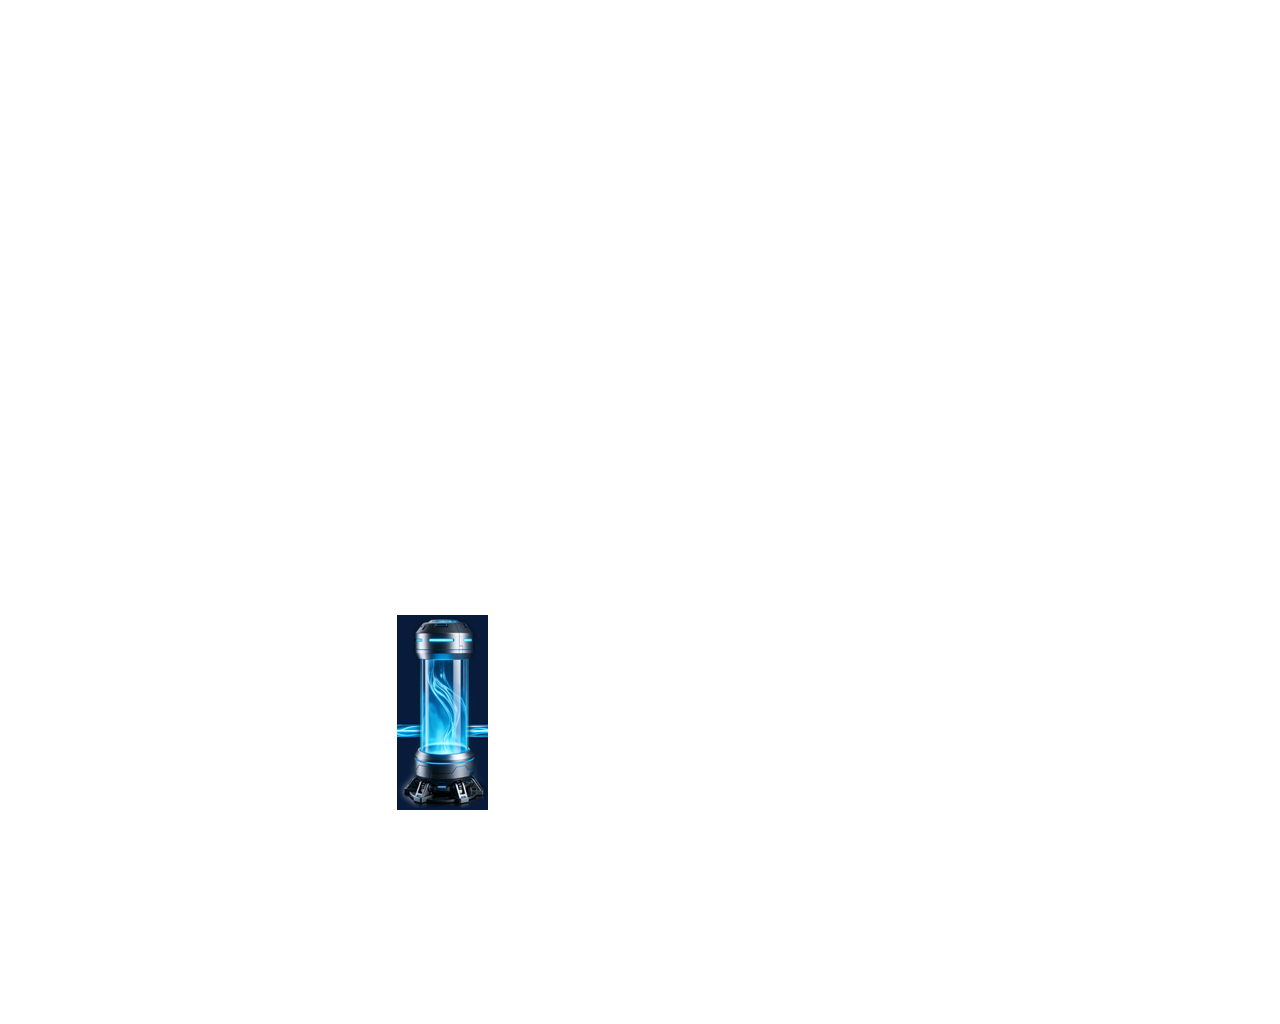
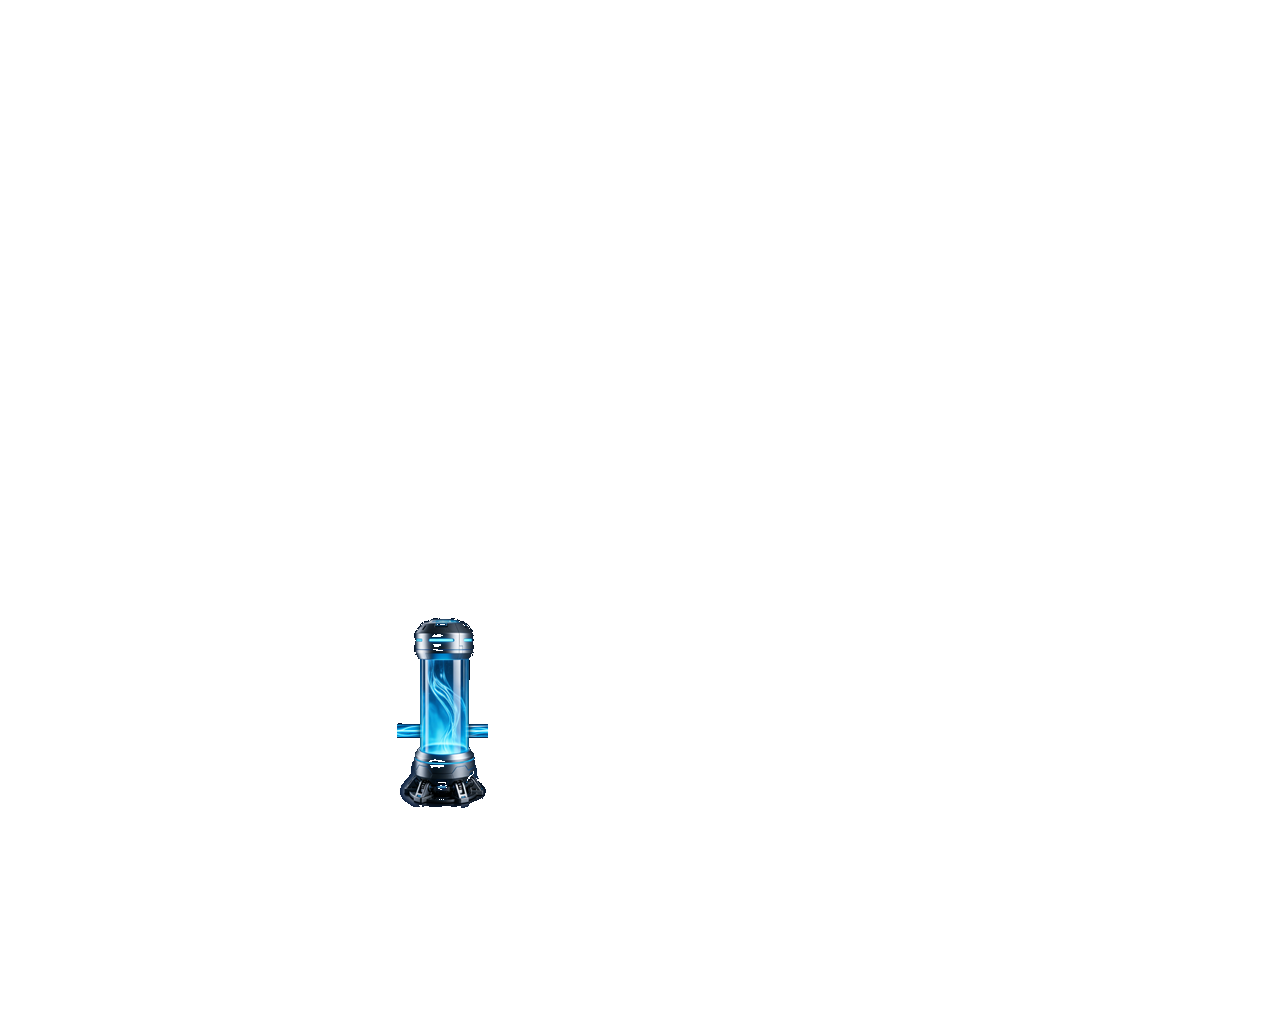
feat: replace sys_alarm with sys_status displaying machine state

Changed region(s): [[0.3125, 0.5938, 0.4062, 0.8125]]

diff --git a/h2o2_monitor/src/main.rs b/h2o2_monitor/src/main.rs
@@ -255,7 +255,7 @@ fn apply_plc_data(ui: &AppWindow, data: PlcData) {
         ui.set_q_valve_cathode(false);
         ui.set_q_dc_power(false);
         set_all_flows(ui, false);
-        ui.set_sys_alarm(true);
+        ui.set_sys_status("通讯断开".into());
         return;
     }
 
@@ -295,8 +295,7 @@ fn apply_plc_data(ui: &AppWindow, data: PlcData) {
     ui.set_flow_cathode(data.flow_cathode);
     ui.set_pump_anode_percent(pump_anode_percent);
     ui.set_pump_cathode_percent(pump_cathode_percent);
-    ui.set_sys_alarm(data.sys_alarm);
-    
+
     ui.set_flow_pure_to_cathode(water_running || cathode_running);
     ui.set_flow_cathode_valve_to_corner(cathode_running);
     ui.set_flow_cathode_vertical(cathode_running);
@@ -307,6 +306,23 @@ fn apply_plc_data(ui: &AppWindow, data: PlcData) {
     ui.set_flow_anode_vertical(anode_running);
     ui.set_flow_anode_upper(anode_running);
     ui.set_flow_air_compressor(air_running);
+    ui.set_sys_status(sequence_text(data.sequence_startup, data.sequence_shutdown).into());
+}
+
+fn sequence_text(startup: u8, shutdown: u8) -> &'static str {
+    if shutdown == 10 {
+        return "停机中";
+    }
+    if shutdown == 20 {
+        return "停机中";
+    }
+    match startup {
+        0 => "待机中",
+        10 => "工作中",
+        20 => "工作中",
+        30 => "工作中",
+        _ => "工作中",
+    }
 }
 
 fn set_all_flows(ui: &AppWindow, active: bool) {

diff --git a/crop_perfect.py b/crop_perfect.py
@@ -1,7 +1,8 @@
 import numpy as np
 from PIL import Image
 
-orig = np.array(Image.open('PNG_1280/整体效果.png').convert('RGBA'))
+# Use the transparent, text-free image
+orig = np.array(Image.open('PNG_1280/pure_machine_network.png').convert('RGBA'))
 
 boxes = {
     '电解槽': (479, 807, 277, 541),
@@ -23,7 +24,6 @@ boxes = {
 }
 
 for name, (x1, x2, y1, y2) in boxes.items():
-    # Expand box by 3 pixels to ensure we don't cut edges
     x1, x2 = max(0, x1-3), min(orig.shape[1], x2+3)
     y1, y2 = max(0, y1-3), min(orig.shape[0], y2+3)
     
